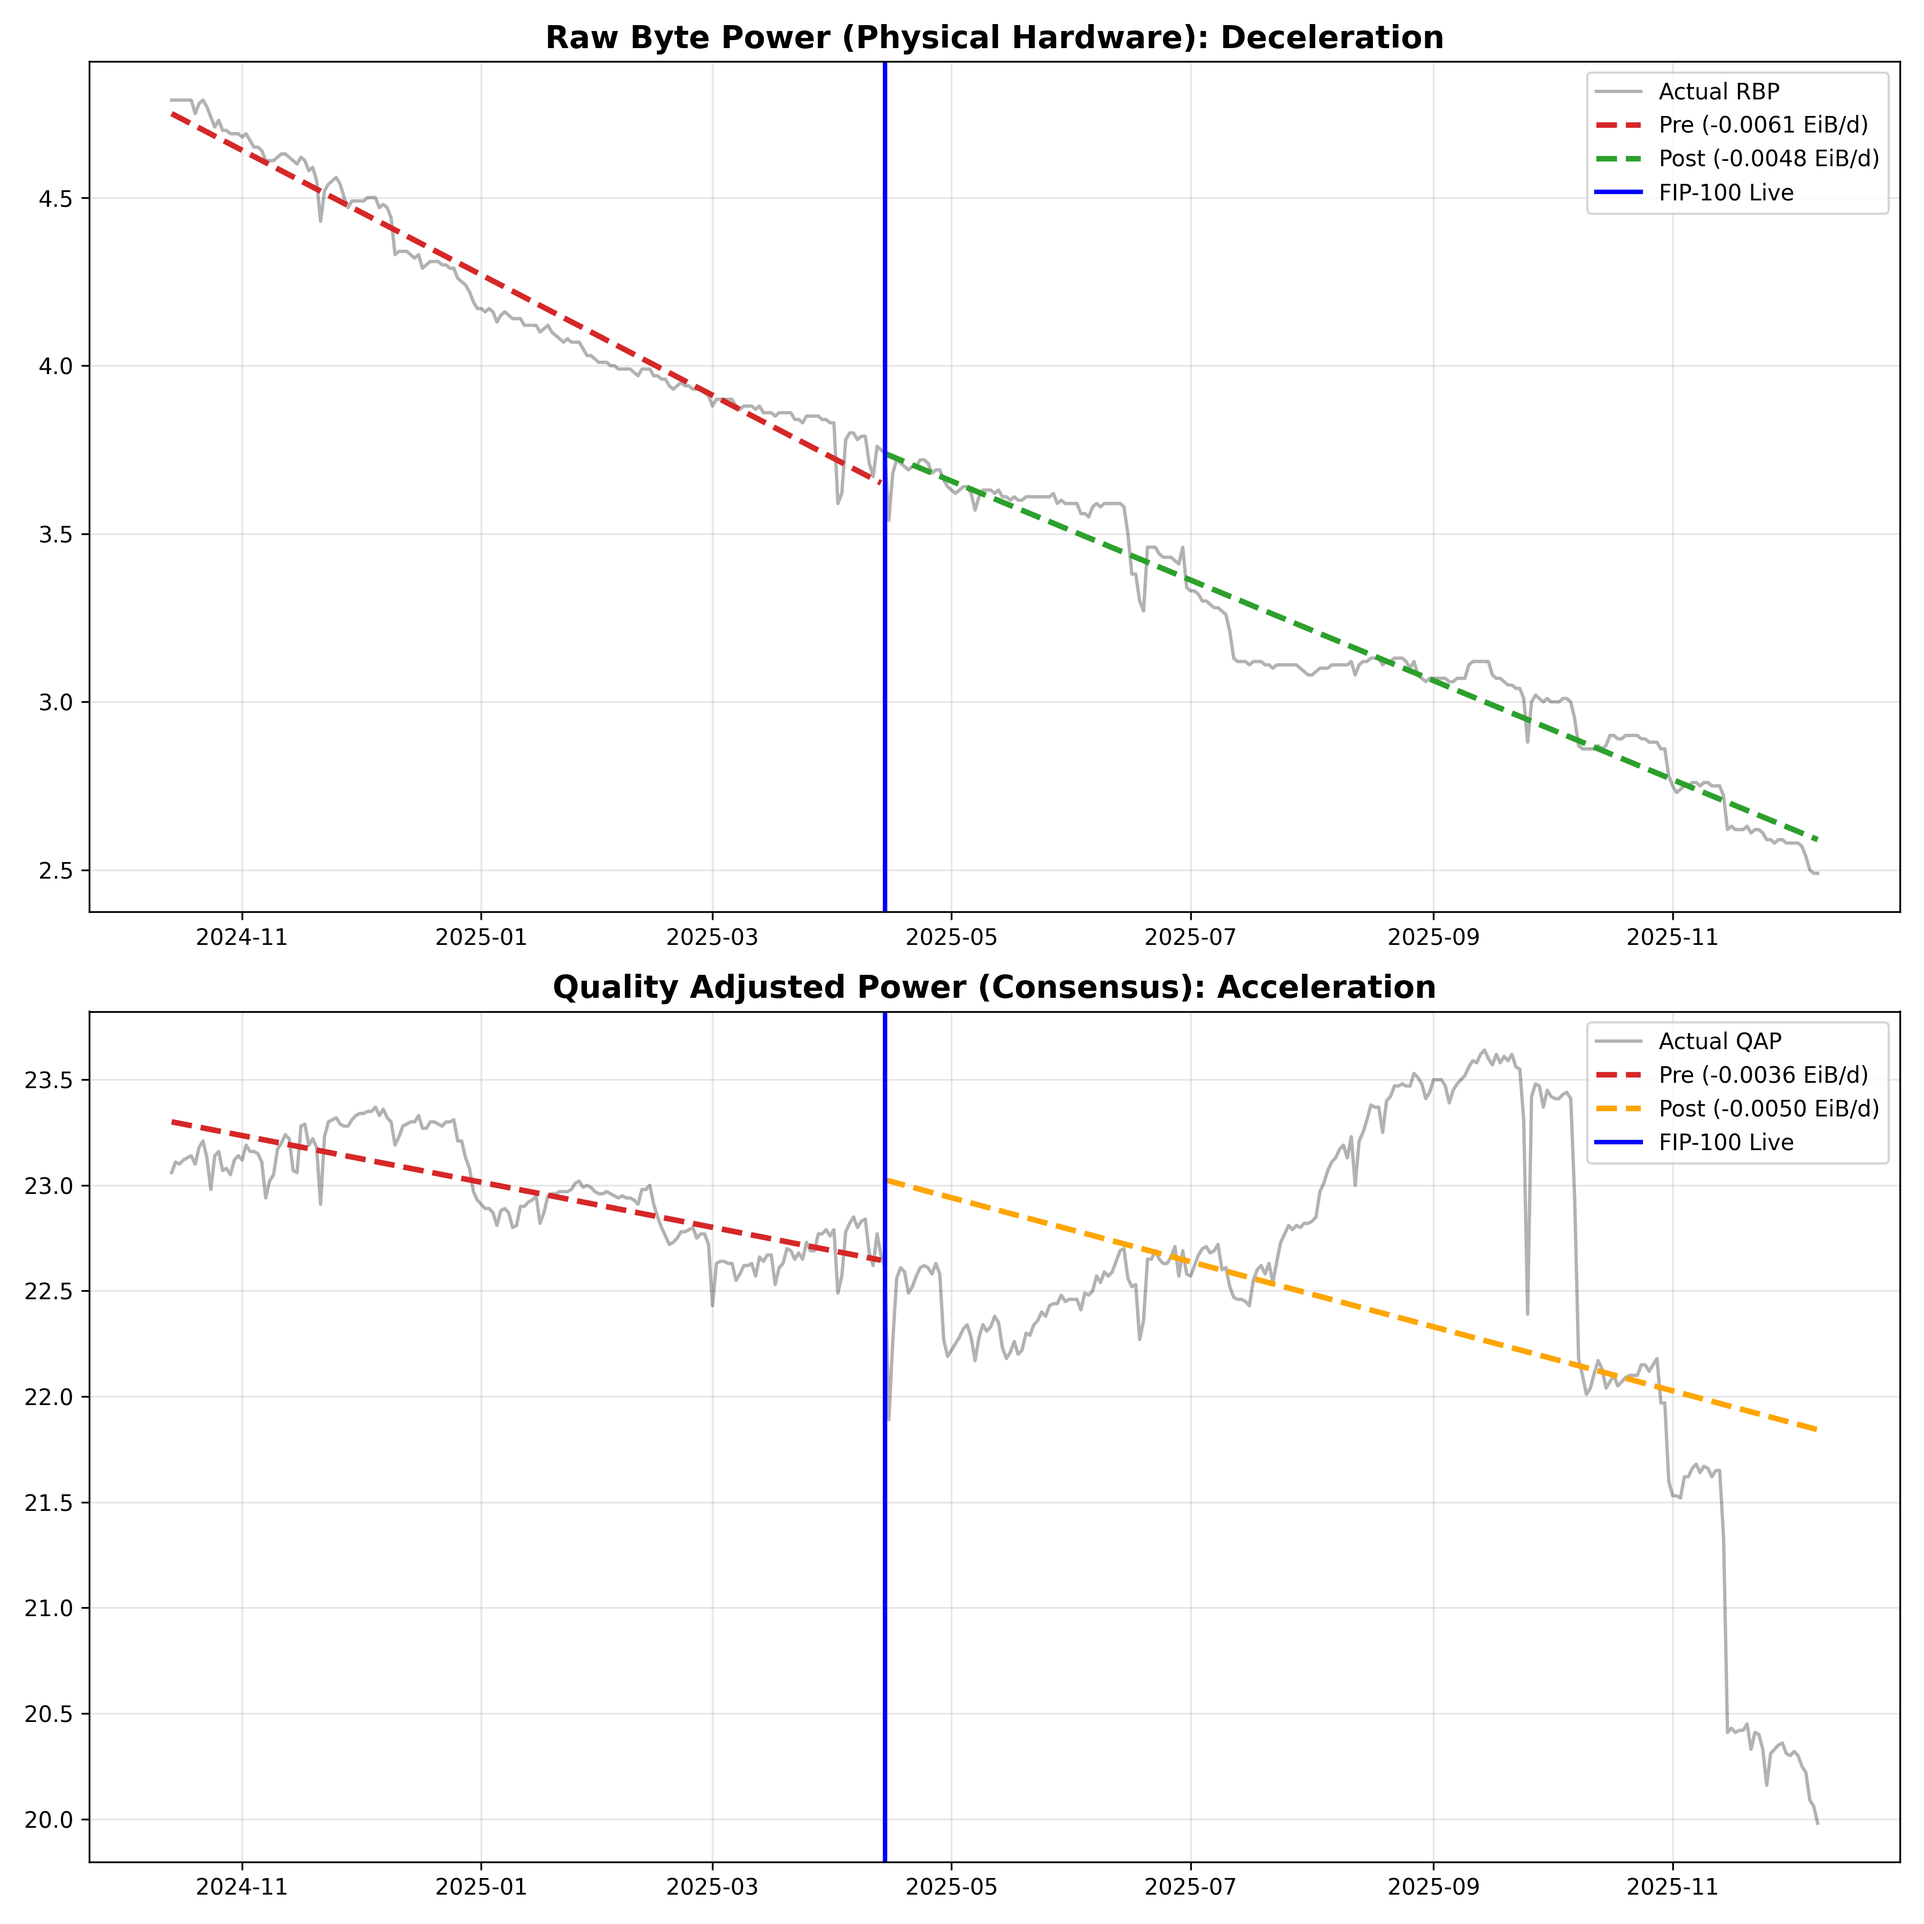
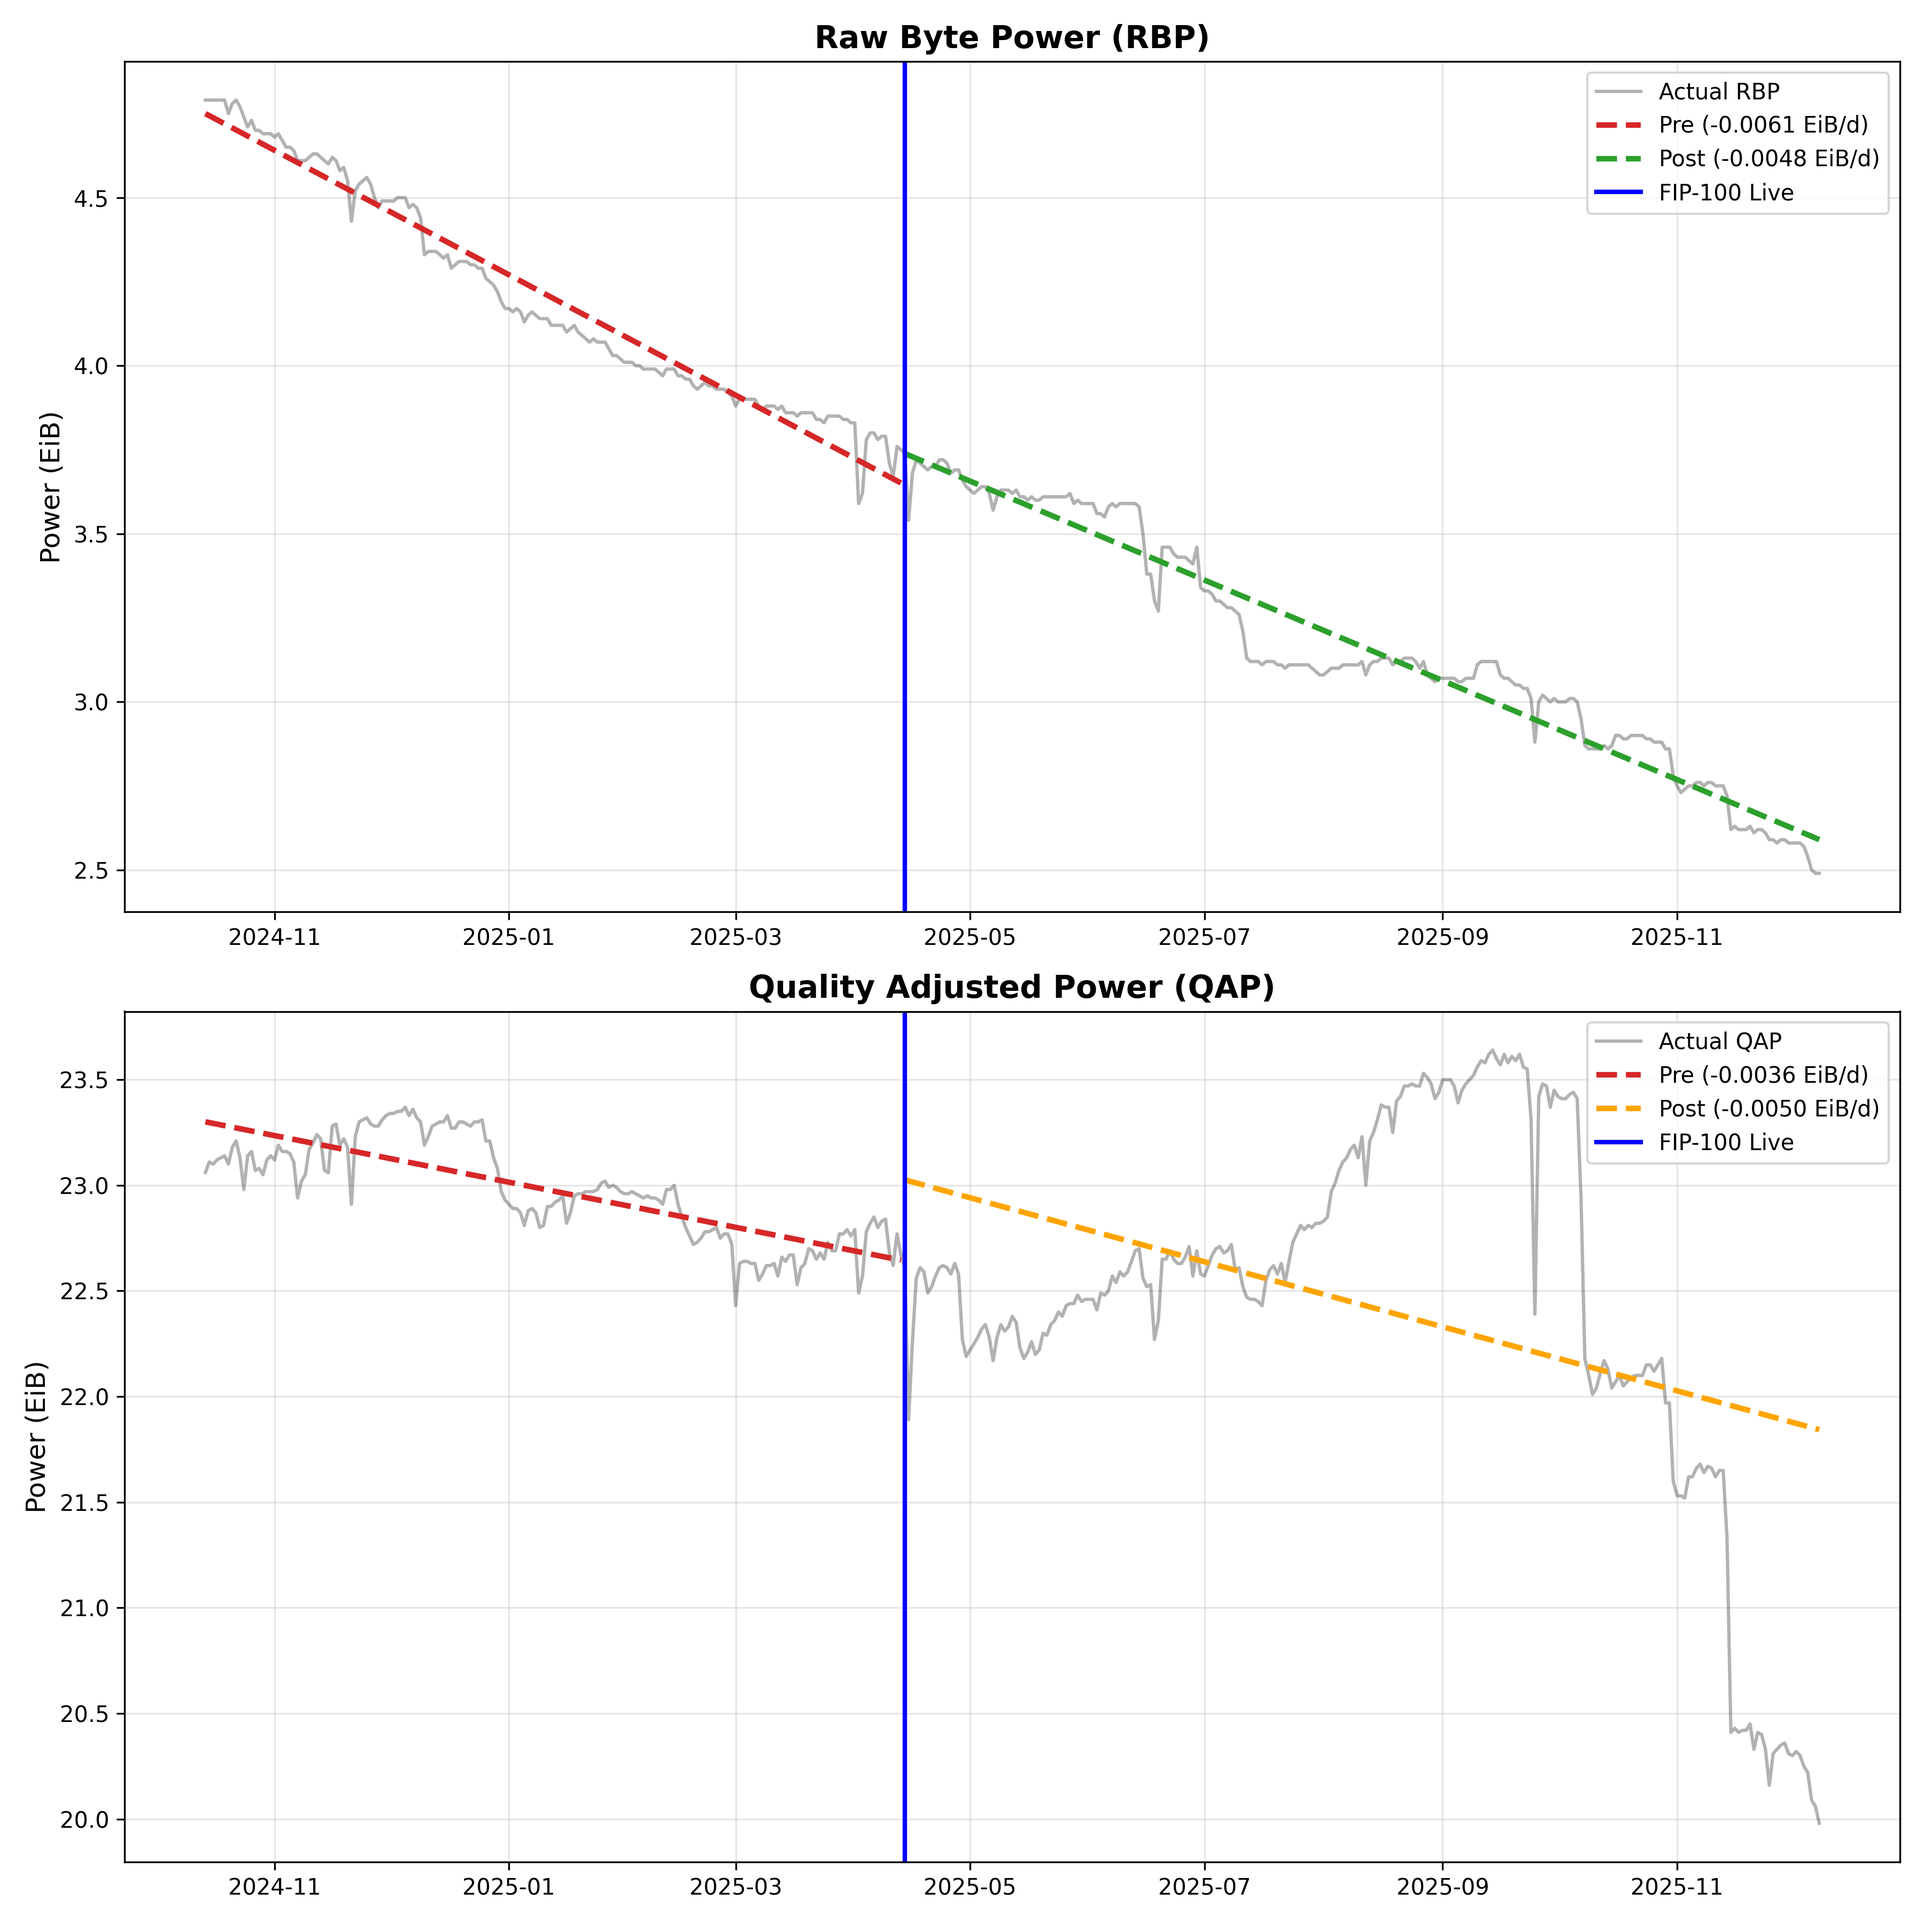
Updates with right fip100 live date

diff --git a/main.py b/main.py
@@ -20,7 +20,7 @@ def get_slope(sub_df, col):
     return slope, intercept, x
 
 def plot_rbp_qap_comparison(df):
-    """Generates the comparison chart between Physical (RBP) and Consensus (QAP) power."""
+    """Generates the comparison chart between Raw Byte (RBP) and Quality Adjusted (QAP) Power."""
     data = df[df['stateTime'] >= START_DATE].copy()
     pre = data[data['stateTime'] < EVENT_DATE]
     post = data[data['stateTime'] >= EVENT_DATE]
@@ -34,8 +34,9 @@ def plot_rbp_qap_comparison(df):
     ax1.plot(pre['stateTime'], slope_pre * x_pre + int_pre, '#d62728', lw=2.5, ls='--', label=f'Pre ({slope_pre:.4f} EiB/d)')
     ax1.plot(post['stateTime'], slope_post * x_post + int_post, '#2ca02c', lw=2.5, ls='--', label=f'Post ({slope_post:.4f} EiB/d)')
     ax1.axvline(EVENT_DATE, color='blue', lw=2, label='FIP-100 Live')
-    ax1.set_title('Raw Byte Power (Physical Hardware): Deceleration', fontsize=14, fontweight='bold')
+    ax1.set_title('Raw Byte Power (RBP)', fontsize=14, fontweight='bold')
     ax1.legend()
+    ax1.set_ylabel('Power (EiB)', fontsize=12) 
     ax1.grid(True, alpha=0.3)
     
     # Plot 2: QAP
@@ -45,8 +46,9 @@ def plot_rbp_qap_comparison(df):
     ax2.plot(pre['stateTime'], slope_pre_q * x_pre_q + int_pre_q, '#d62728', lw=2.5, ls='--', label=f'Pre ({slope_pre_q:.4f} EiB/d)')
     ax2.plot(post['stateTime'], slope_post_q * x_post_q + int_post_q, 'orange', lw=2.5, ls='--', label=f'Post ({slope_post_q:.4f} EiB/d)')
     ax2.axvline(EVENT_DATE, color='blue', lw=2, label='FIP-100 Live')
-    ax2.set_title('Quality Adjusted Power (Consensus): Acceleration', fontsize=14, fontweight='bold')
+    ax2.set_title('Quality Adjusted Power (QAP)', fontsize=14, fontweight='bold')
     ax2.legend()
+    ax2.set_ylabel('Power (EiB)', fontsize=12)
     ax2.grid(True, alpha=0.3)
 
     plt.tight_layout()
